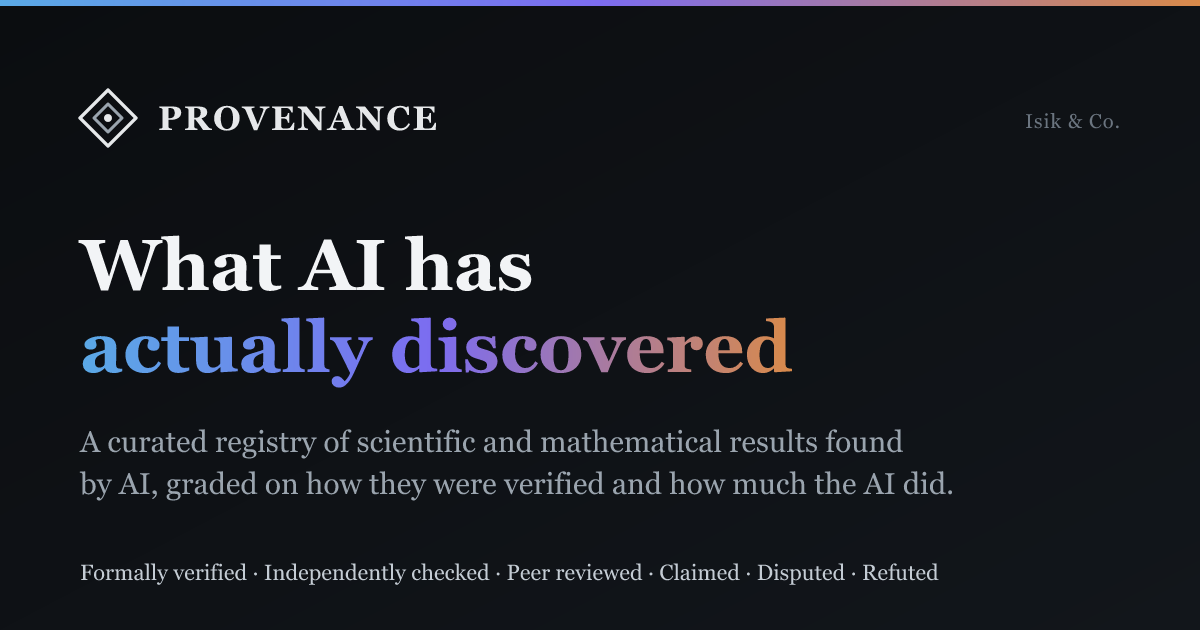
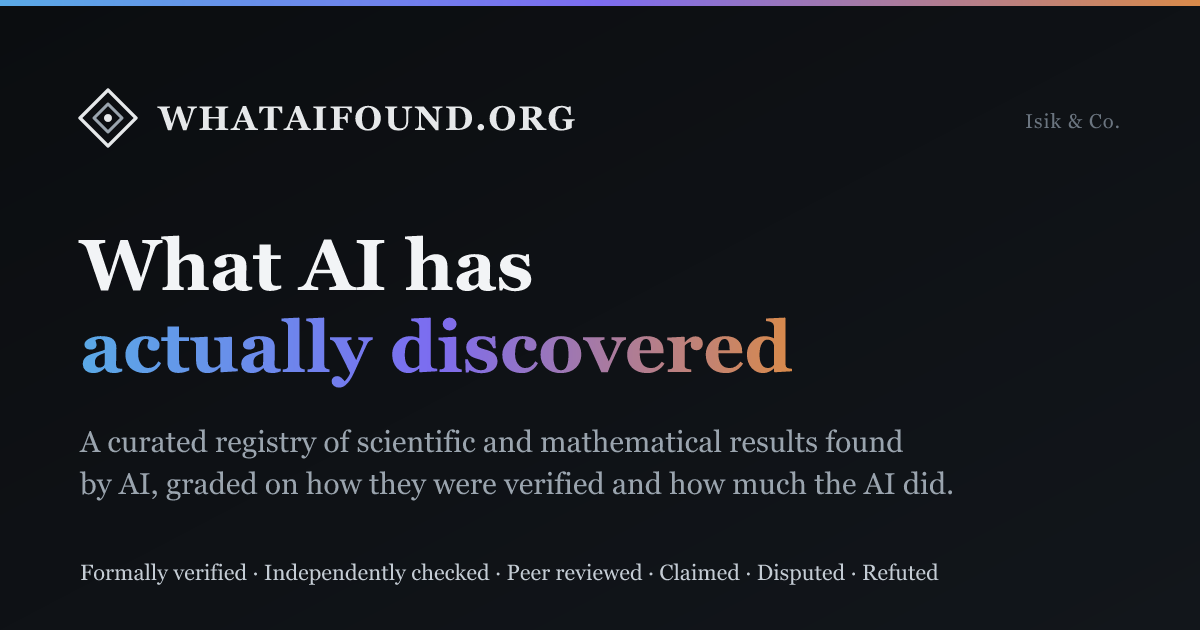
branding name auto + find update

Changed region(s): [[0.1233, 0.1508, 0.4933, 0.2111]]

diff --git a/app/index.html b/app/index.html
@@ -9,17 +9,17 @@
      Canonical domain: https://whataifound.org
      (Also referenced in: sitemap.xml, robots.txt, methodology.html)
      ============================================================ -->
-<title>Provenance: What AI Has Actually Discovered | Registry of AI Scientific &amp; Math Discoveries</title>
-<meta name="description" content="Provenance is a curated, independently graded registry of real scientific and mathematical discoveries made by or with AI systems (Anthropic, OpenAI, DeepMind and others). Every AI discovery is graded on how it was verified, from formally machine-checked proofs to disputed claims, and on how much the AI actually did versus its human collaborators. Search AI breakthroughs across mathematics, physics, biology and computer science.">
+<title>whataifound.org: What AI Has Actually Discovered | Registry of AI Scientific &amp; Math Discoveries</title>
+<meta name="description" content="whataifound.org is a curated, independently graded registry of real scientific and mathematical discoveries made by or with AI systems (Anthropic, OpenAI, DeepMind and others). Every AI discovery is graded on how it was verified, from formally machine-checked proofs to disputed claims, and on how much the AI actually did versus its human collaborators. Search AI breakthroughs across mathematics, physics, biology and computer science.">
 <meta name="keywords" content="AI discoveries, AI scientific discoveries, AI math discoveries, discoveries made by AI, has AI discovered anything new, AI theorems, AI proofs, verified AI research, AlphaEvolve, FunSearch, AlphaProof, autonomous AI research, AI mathematics registry">
-<meta name="author" content="Provenance (independent editorial project)">
+<meta name="author" content="whataifound.org (independent editorial project)">
 <meta name="robots" content="index, follow, max-image-preview:large, max-snippet:-1">
 <link rel="canonical" href="https://whataifound.org/">
 
 <!-- Open Graph (Facebook, LinkedIn, Slack, Discord, iMessage) -->
 <meta property="og:type" content="website">
-<meta property="og:site_name" content="Provenance">
-<meta property="og:title" content="Provenance: What AI Has Actually Discovered">
+<meta property="og:site_name" content="whataifound.org">
+<meta property="og:title" content="whataifound.org: What AI Has Actually Discovered">
 <meta property="og:description" content="A curated registry of scientific and mathematical results discovered by or with AI, graded on how each was verified and how much the AI actually did.">
 <meta property="og:url" content="https://whataifound.org/">
 <!-- PNG, not SVG: WhatsApp, iMessage, Facebook, LinkedIn and X do not render SVG previews. -->
@@ -28,22 +28,22 @@
 <meta property="og:image:type" content="image/png">
 <meta property="og:image:width" content="1200">
 <meta property="og:image:height" content="630">
-<meta property="og:image:alt" content="Provenance: a curated registry of what AI has actually discovered.">
+<meta property="og:image:alt" content="whataifound.org: a curated registry of what AI has actually discovered.">
 <meta property="og:locale" content="en_US">
 
 <!-- Twitter / X card -->
 <meta name="twitter:card" content="summary_large_image">
-<meta name="twitter:title" content="Provenance: What AI Has Actually Discovered">
+<meta name="twitter:title" content="whataifound.org: What AI Has Actually Discovered">
 <meta name="twitter:description" content="A curated, verification-graded registry of scientific and mathematical results discovered by or with AI systems.">
 <meta name="twitter:image" content="https://whataifound.org/assets/brand/og.png">
-<meta name="twitter:image:alt" content="Provenance: a curated registry of what AI has actually discovered.">
+<meta name="twitter:image:alt" content="whataifound.org: a curated registry of what AI has actually discovered.">
 
 <link rel="icon" href="assets/brand/favicon.svg" type="image/svg+xml">
 <link rel="mask-icon" href="assets/brand/favicon.svg" color="#0b0d10">
 
 <!-- Subscribable feeds: new and updated registry entries. -->
-<link rel="alternate" type="application/feed+json" href="/feed.json" title="Provenance (JSON Feed)">
-<link rel="alternate" type="application/rss+xml" href="/feed.xml" title="Provenance (RSS)">
+<link rel="alternate" type="application/feed+json" href="/feed.json" title="whataifound.org (JSON Feed)">
+<link rel="alternate" type="application/rss+xml" href="/feed.xml" title="whataifound.org (RSS)">
 
 <!-- Structured data: helps Google, ChatGPT, Perplexity and other AI search
      engines understand what this site is and cite it accurately. -->
@@ -55,8 +55,8 @@
       "@type": "WebSite",
       "@id": "https://whataifound.org/#website",
       "url": "https://whataifound.org/",
-      "name": "Provenance",
-      "alternateName": "Provenance: What AI Has Actually Discovered",
+      "name": "whataifound.org",
+      "alternateName": "whataifound.org: What AI Has Actually Discovered",
       "description": "A curated, independently graded registry of scientific and mathematical results discovered by or with AI systems. Every entry is graded on how it was verified and how much the AI actually did.",
       "inLanguage": "en",
       "potentialAction": {
@@ -68,12 +68,12 @@
     {
       "@type": "Dataset",
       "@id": "https://whataifound.org/#dataset",
-      "name": "Provenance: Registry of AI Scientific and Mathematical Discoveries",
+      "name": "whataifound.org: Registry of AI Scientific and Mathematical Discoveries",
       "description": "An open, curated registry of scientific and mathematical results discovered by or with AI systems. Each record is graded on a verification axis (formally verified, independently checked, peer reviewed, author verified, claimed, disputed, already known, refuted) and an autonomy axis (how much the AI did versus its human collaborators). Results that turned out to already exist in the literature are kept on the record.",
       "url": "https://whataifound.org/",
       "keywords": ["AI discoveries", "artificial intelligence", "mathematics", "scientific discovery", "machine-verified proofs", "AI autonomy", "research provenance"],
       "isAccessibleForFree": true,
-      "creator": { "@type": "Organization", "name": "Provenance", "url": "https://whataifound.org/" },
+      "creator": { "@type": "Organization", "name": "whataifound.org", "url": "https://whataifound.org/" },
       "license": "https://whataifound.org/methodology.html",
       "distribution": {
         "@type": "DataDownload",
@@ -90,12 +90,12 @@
           "name": "What has AI actually discovered in science and mathematics?",
           "acceptedAnswer": {
             "@type": "Answer",
-            "text": "Provenance is a curated registry of scientific and mathematical results discovered by or with AI systems. Each entry records the claim, the AI model and lab involved, the human collaborators, and a grade for how it was verified and how much the AI actually did."
+            "text": "whataifound.org is a curated registry of scientific and mathematical results discovered by or with AI systems. Each entry records the claim, the AI model and lab involved, the human collaborators, and a grade for how it was verified and how much the AI actually did."
           }
         },
         {
           "@type": "Question",
-          "name": "How does Provenance verify AI discoveries?",
+          "name": "How does whataifound.org verify AI discoveries?",
           "acceptedAnswer": {
             "@type": "Answer",
             "text": "Every finding is graded on a verification scale from strongest to weakest: formally verified (machine-checked proof), independently checked, peer reviewed, author verified, claimed, disputed, already known, and refuted. When unsure, the lower grade wins. Nothing is ever deleted; entries are downgraded and annotated instead."
@@ -106,7 +106,7 @@
           "name": "How much of an AI discovery was done by the AI versus humans?",
           "acceptedAnswer": {
             "@type": "Answer",
-            "text": "Provenance grades an autonomy axis on the strictest defensible reading: autonomous, AI-led, collaborative, AI-assisted, search scaffold (e.g. FunSearch, AlphaEvolve), or retrieval. If a human posed the problem, suggested the approach, and checked the algebra, that is not counted as autonomous."
+            "text": "whataifound.org grades an autonomy axis on the strictest defensible reading: autonomous, AI-led, collaborative, AI-assisted, search scaffold (e.g. FunSearch, AlphaEvolve), or retrieval. If a human posed the problem, suggested the approach, and checked the algebra, that is not counted as autonomous."
           }
         }
       ]
@@ -141,7 +141,7 @@
         <path class="m2" d="M12 7 L17 12 L12 17 L7 12 Z" fill="none" stroke="currentColor" stroke-width="1.4" stroke-linejoin="round"/>
         <circle class="m3" cx="12" cy="12" r="1.7" fill="currentColor"/>
       </svg>
-      Provenance</span>
+      whataifound.org</span>
     <span class="eyebrow-right">
       <span class="theme-seg" role="group" aria-label="Colour theme">
         <button type="button" class="th" data-mode="light" aria-label="Light theme" aria-pressed="false" title="Light">
@@ -163,7 +163,7 @@
   entry on <strong>how it was verified</strong> and <strong>how much the AI actually did</strong>,
   so you can tell a machine-checked proof from a press release.</p>
   <div class="actions intro i4">
-    <a class="btn primary" href="mailto:misik6@gatech.edu?subject=Provenance%20feedback"
+    <a class="btn primary" href="mailto:misik6@gatech.edu?subject=whataifound.org%20feedback"
        title="Submit a finding, suggest a correction, or ask for updates">Feedback</a>
     <a type="button" class="btn" id="btn-visuals" aria-expanded="false" aria-controls="panel-visuals">Visuals</a>
     <a class="btn" href="methodology.html">Methodology</a>
@@ -245,7 +245,7 @@
   anything; we downgrade and annotate entries instead, and keep the full history public. We write
   a novelty check for every entry, including when it comes back clean.</p>
   <span class="lbl">Disclaimer</span>
-  <p>We run Provenance as an independent editorial project. Verification and autonomy grades are
+  <p>We run whataifound.org as an independent editorial project. Verification and autonomy grades are
   our editorial judgments, made in good faith from public information; they are provided "as is",
   without warranty of any kind, and may change as new evidence emerges. Nothing here is
   scientific, legal, or investment advice. This site is not affiliated with, sponsored by, or
@@ -265,7 +265,7 @@
 
   <span class="lbl">How to cite</span>
   <p class="cite">
-    Provenance (2026). <em>Provenance: A Registry of AI Scientific and Mathematical Discoveries.</em>
+    whataifound.org (2026). <em>whataifound.org: A Registry of AI Scientific and Mathematical Discoveries.</em>
     Retrieved <span id="cite-date">2026</span> from https://whataifound.org/
   </p>
 

diff --git a/app/methodology.html b/app/methodology.html
@@ -5,15 +5,15 @@
 <meta name="viewport" content="width=device-width, initial-scale=1, viewport-fit=cover">
 
 <!-- Canonical domain: https://whataifound.org -->
-<title>Methodology: How Provenance Grades AI Discoveries | Verification &amp; Autonomy Levels</title>
-<meta name="description" content="How Provenance grades every AI scientific and mathematical discovery: an eight-level verification scale from formally machine-checked proofs to refuted claims, a six-level autonomy scale measuring how much the AI actually did versus its human collaborators, and the editorial rules (including a mandatory novelty check and a no-deletion policy) that keep the registry trustworthy.">
+<title>Methodology: How whataifound.org Grades AI Discoveries | Verification &amp; Autonomy Levels</title>
+<meta name="description" content="How whataifound.org grades every AI scientific and mathematical discovery: an eight-level verification scale from formally machine-checked proofs to refuted claims, a six-level autonomy scale measuring how much the AI actually did versus its human collaborators, and the editorial rules (including a mandatory novelty check and a no-deletion policy) that keep the registry trustworthy.">
 <meta name="robots" content="index, follow, max-image-preview:large, max-snippet:-1">
 <link rel="canonical" href="https://whataifound.org/methodology">
 
 <meta property="og:type" content="article">
-<meta property="og:site_name" content="Provenance">
-<meta property="og:title" content="Methodology: How Provenance Grades AI Discoveries">
-<meta property="og:description" content="The verification levels, autonomy levels, and editorial rules Provenance uses to grade scientific and mathematical discoveries made by or with AI.">
+<meta property="og:site_name" content="whataifound.org">
+<meta property="og:title" content="Methodology: How whataifound.org Grades AI Discoveries">
+<meta property="og:description" content="The verification levels, autonomy levels, and editorial rules whataifound.org uses to grade scientific and mathematical discoveries made by or with AI.">
 <meta property="og:url" content="https://whataifound.org/methodology">
 <!-- PNG, not SVG: WhatsApp, iMessage, Facebook, LinkedIn and X do not render SVG previews. -->
 <meta property="og:image" content="https://whataifound.org/assets/brand/og.png">
@@ -24,28 +24,28 @@
 <meta property="og:locale" content="en_US">
 
 <meta name="twitter:card" content="summary_large_image">
-<meta name="twitter:title" content="Methodology: How Provenance Grades AI Discoveries">
-<meta name="twitter:description" content="The verification levels, autonomy levels, and editorial rules behind the Provenance registry.">
+<meta name="twitter:title" content="Methodology: How whataifound.org Grades AI Discoveries">
+<meta name="twitter:description" content="The verification levels, autonomy levels, and editorial rules behind the whataifound.org registry.">
 <meta name="twitter:image" content="https://whataifound.org/assets/brand/og.png">
 
 <link rel="icon" href="assets/brand/favicon.svg" type="image/svg+xml">
 <link rel="mask-icon" href="assets/brand/favicon.svg" color="#0b0d10">
 
 <!-- Subscribable feeds: new and updated registry entries. -->
-<link rel="alternate" type="application/feed+json" href="/feed.json" title="Provenance (JSON Feed)">
-<link rel="alternate" type="application/rss+xml" href="/feed.xml" title="Provenance (RSS)">
+<link rel="alternate" type="application/feed+json" href="/feed.json" title="whataifound.org (JSON Feed)">
+<link rel="alternate" type="application/rss+xml" href="/feed.xml" title="whataifound.org (RSS)">
 
 <script type="application/ld+json">
 {
   "@context": "https://schema.org",
   "@type": "TechArticle",
   "@id": "https://whataifound.org/methodology#article",
-  "headline": "Methodology: How Provenance Grades AI Discoveries",
-  "description": "The verification levels, autonomy levels, and editorial rules Provenance uses to grade scientific and mathematical discoveries made by or with AI.",
+  "headline": "Methodology: How whataifound.org Grades AI Discoveries",
+  "description": "The verification levels, autonomy levels, and editorial rules whataifound.org uses to grade scientific and mathematical discoveries made by or with AI.",
   "url": "https://whataifound.org/methodology",
   "inLanguage": "en",
-  "author": { "@type": "Organization", "name": "Provenance" },
-  "publisher": { "@type": "Organization", "name": "Provenance", "url": "https://whataifound.org/" },
+  "author": { "@type": "Organization", "name": "whataifound.org" },
+  "publisher": { "@type": "Organization", "name": "whataifound.org", "url": "https://whataifound.org/" },
   "isPartOf": { "@id": "https://whataifound.org/#website" },
   "about": ["AI discoveries", "scientific verification", "AI autonomy", "research provenance", "mathematics"]
 }
@@ -88,7 +88,7 @@
         <path class="m2" d="M12 7 L17 12 L12 17 L7 12 Z" fill="none" stroke="currentColor" stroke-width="1.4" stroke-linejoin="round"/>
         <circle class="m3" cx="12" cy="12" r="1.7" fill="currentColor"/>
       </svg>
-      Provenance</span>
+      whataifound.org</span>
     <a class="back" href="index.html">← Back to the registry</a>
   </div>
   <h1 class="meth-title">Methodology</h1>
@@ -154,7 +154,7 @@
 </main>
 
 <footer>
-  <p>We run Provenance as an independent editorial project. Grades are our good-faith judgments from
+  <p>We run whataifound.org as an independent editorial project. Grades are our good-faith judgments from
   public information, provided "as is", and may change as new evidence emerges.
   <a href="index.html">Back to the registry ↗</a></p>
 </footer>

diff --git a/app/404.html b/app/404.html
@@ -3,7 +3,7 @@
 <head>
 <meta charset="utf-8">
 <meta name="viewport" content="width=device-width, initial-scale=1, viewport-fit=cover">
-<title>Page not found | Provenance</title>
+<title>Page not found | whataifound.org</title>
 <meta name="robots" content="noindex, follow">
 <link rel="icon" href="/assets/brand/favicon.svg" type="image/svg+xml">
 <link rel="mask-icon" href="/assets/brand/favicon.svg" color="#0b0d10">

diff --git a/build-feed.py b/build-feed.py
@@ -1,7 +1,7 @@
 #!/usr/bin/env python3
 """Generate feed.json (JSON Feed 1.1) and feed.xml (RSS 2.0) from data/entries.json.
 
-Provenance has no build step; this is a standalone generator you run whenever the
+whataifound.org has no build step; this is a standalone generator you run whenever the
 registry changes. It writes feed.json and feed.xml at the repo root, next to
 data/ and assets/, so Vercel serves them directly.
 
@@ -67,10 +67,10 @@ feed_url_xml = f"{SITE}/feed.xml"
 # ---- JSON Feed 1.1 (https://www.jsonfeed.org/version/1.1/) ----
 json_feed = {
     "version": "https://jsonfeed.org/version/1.1",
-    "title": "Provenance: What AI Has Actually Discovered",
+    "title": "whataifound.org: What AI Has Actually Discovered",
     "home_page_url": f"{SITE}/",
     "feed_url": feed_url_json,
-    "description": "New and updated entries in the Provenance registry of AI scientific and mathematical discoveries, graded on verification and autonomy.",
+    "description": "New and updated entries in the whataifound.org registry of AI scientific and mathematical discoveries, graded on verification and autonomy.",
     "language": "en",
     "icon": f"{SITE}/assets/brand/og.png",
     "favicon": f"{SITE}/assets/brand/favicon.svg",
@@ -113,14 +113,14 @@ rss = (
     '<?xml version="1.0" encoding="UTF-8"?>\n'
     '<rss version="2.0" xmlns:atom="http://www.w3.org/2005/Atom">\n'
     "<channel>\n"
-    "<title>Provenance: What AI Has Actually Discovered</title>\n"
+    "<title>whataifound.org: What AI Has Actually Discovered</title>\n"
     f"<link>{SITE}/</link>\n"
     f'<atom:link href="{feed_url_xml}" rel="self" type="application/rss+xml" />\n'
-    "<description>New and updated entries in the Provenance registry of AI scientific "
+    "<description>New and updated entries in the whataifound.org registry of AI scientific "
     "and mathematical discoveries, graded on verification and autonomy.</description>\n"
     "<language>en</language>\n"
     f"<lastBuildDate>{format_datetime(now)}</lastBuildDate>\n"
-    f"<image><url>{SITE}/assets/brand/og.png</url><title>Provenance</title>"
+    f"<image><url>{SITE}/assets/brand/og.png</url><title>whataifound.org</title>"
     f"<link>{SITE}/</link></image>\n"
     + "\n".join(items_xml)
     + "\n</channel>\n</rss>\n"

diff --git a/README.md b/README.md
@@ -1,4 +1,4 @@
-# Provenance
+# whataifound.org
 
 The record of what AI has actually discovered.
 
@@ -27,7 +27,7 @@ will show a fallback message. Opening `/app/index.html` from a plain server root
 ## Structure
 
 ```
-provenance/
+whataifound/
 ├── app/                # the deployable site (served at / by vercel.json)
 │   ├── index.html      # markup + SEO/social <head>; a tiny inline script sets the theme pre-paint
 │   ├── methodology.html# styled grading reference, linked from the Methodology button
@@ -252,20 +252,15 @@ Roughly in order of remaining value:
 
 See `SCHEMA.md` for full field definitions.
 
-## Domain candidates
+## Domain
 
-All returned NXDOMAIN as of 2026-07-20 (confirm at a registrar before buying; NXDOMAIN means no
-nameservers, which usually but not always means unregistered):
+The registry is **`whataifound.org`**, and the name of the project is the domain itself. A `.org`
+reads as neutral infrastructure, which is what a registry should look like.
 
-`provenance.science` · `chronicle.science` · `almanac.science` · `ledger.science` ·
-`record.science` · `canon.science` · `priorart.science` · `novel.science` · `noesis.science` ·
-`theregistry.science` · `newknown.org` · `machinefound.org` · `novelresult.org`
-
-Taken: `novum.science`, `firstproof.org`, `provenance.ai`, `newknown.com`, `firstfound.org`.
-
-Note that `.science` carries some spam baggage from its cheap-registration era, which can affect
-email deliverability. A `.org` is the safer choice if the registry is meant to read as neutral
-infrastructure.
+The domain string is not free-floating: it is the canonical URL in `app/index.html`,
+`app/methodology.html`, `robots.txt`, `sitemap.xml`, and `build-feed.py`, and it is the wordmark in
+`assets/brand/og.svg` and the header of both pages. Changing it means changing all of those and
+re-rendering `og.png`.
 
 ## Contact address
 
